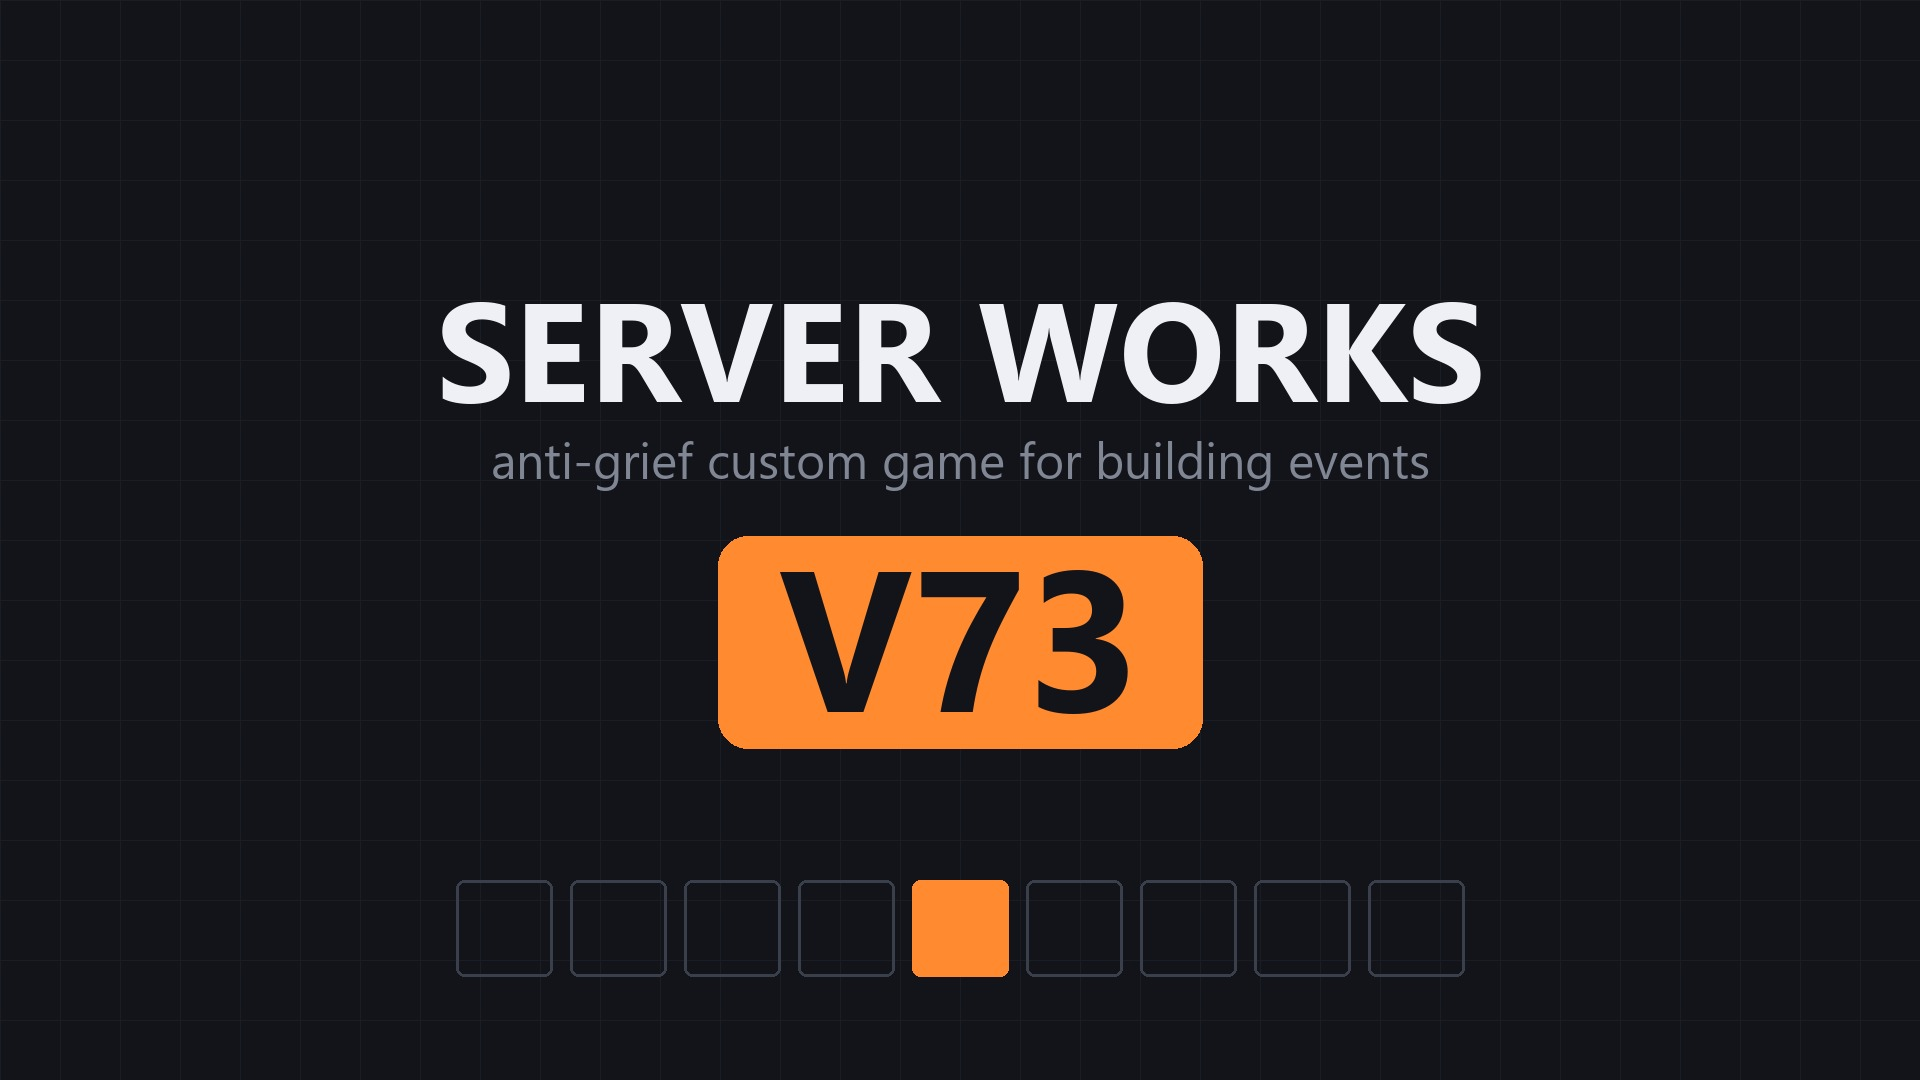
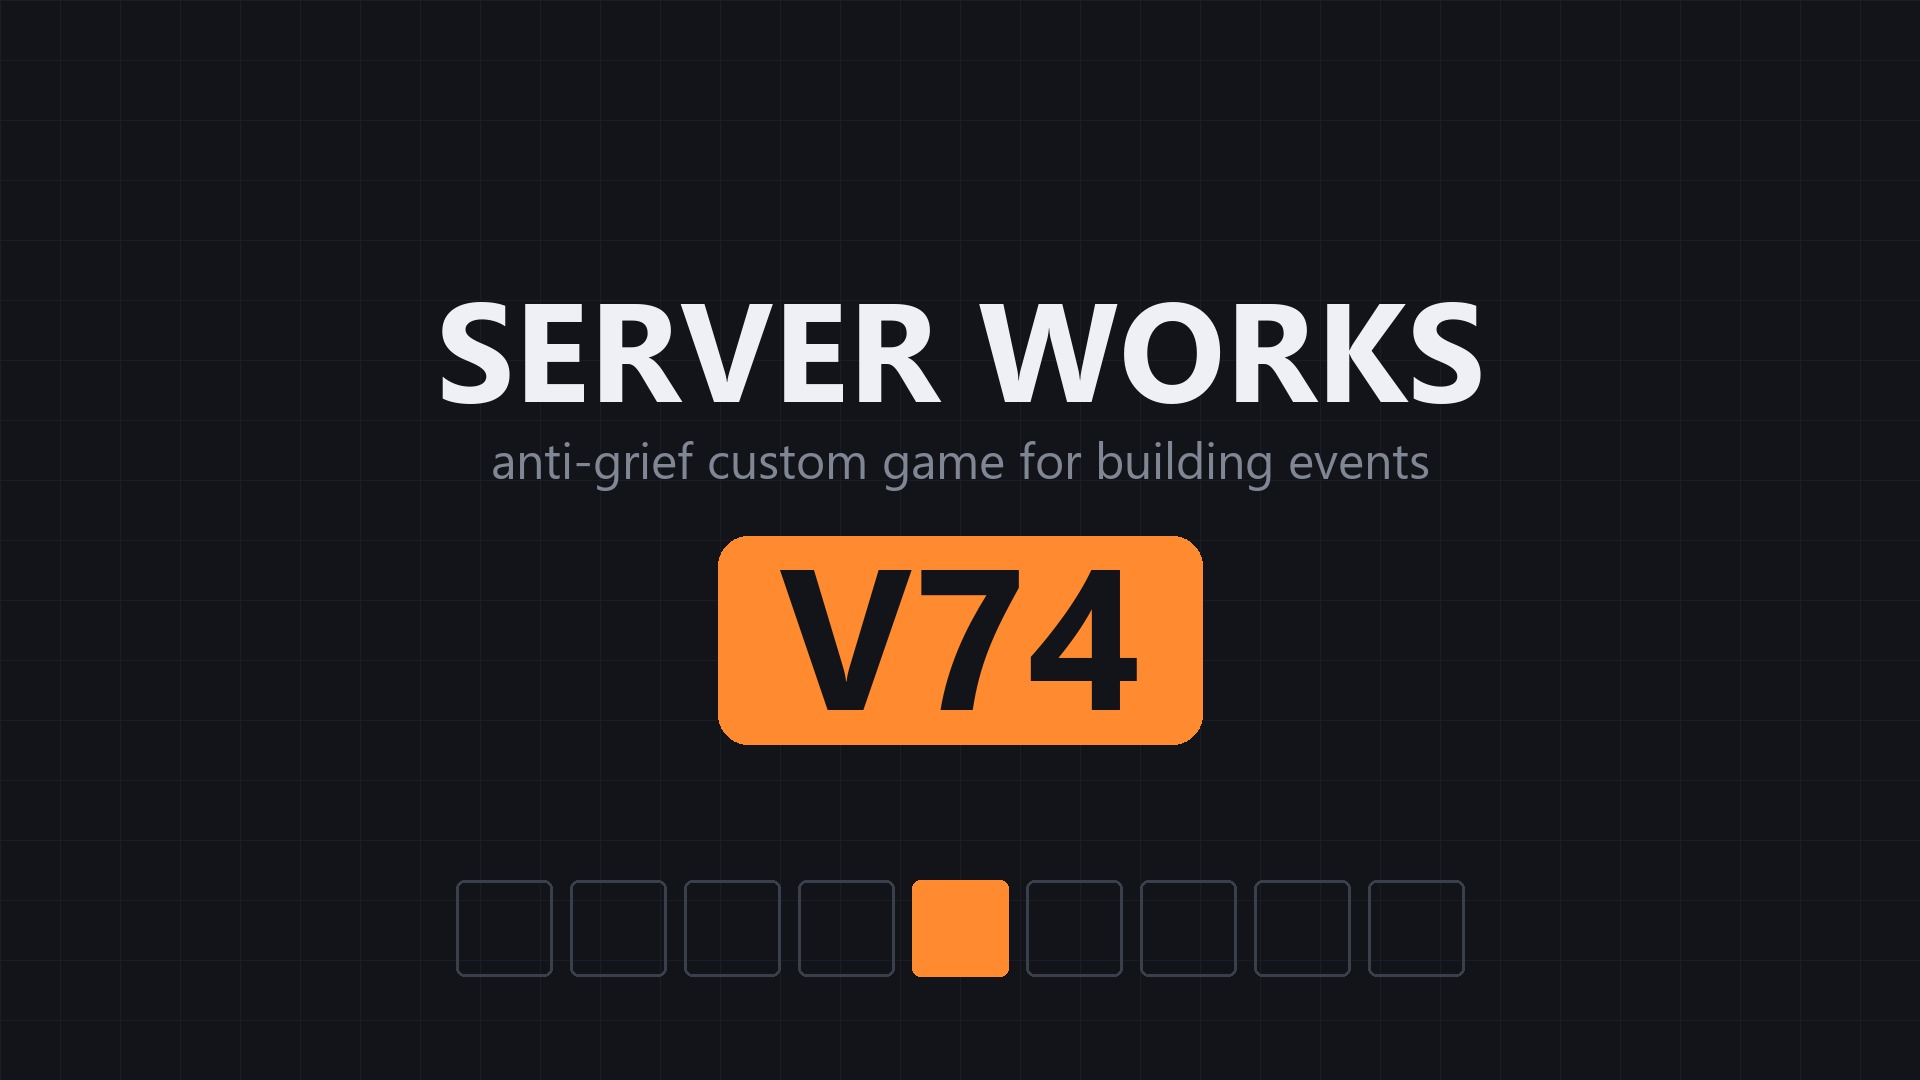
V74: allow block mods again, and make what loaded visible
allow_add_mods is back to true, reversing V54.

Nothing in docs/MODS-AND-TRUST.md is withdrawn -- there is still no sandbox
between mods, a Blocks-and-Parts mod still runs server-side Lua on the host
with nearly our reach, and T mod's backdoor is still a real worked example.
The facts did not change; the decision did.

What makes it defensible is the measurement that decides who is exposed: a
guest CANNOT bring mods (101 subscribed, 1 loaded, on a real join). Only the
host can tick that box, at world creation. So this is not a hole a lobby can
walk through -- it is a choice about the owner's own machine, and the mod was
making it for them. An event that wants custom building parts needs it.

The cost is real and already paid once: T mod is in this machine's own logs,
in a session with 155 mods loaded, and the 95 MB / 4.6 Hz incident happened
in a Server Works world by accident.

So session_stats.py now reports every mod a session loaded -- name, type and
Workshop id -- and says plainly when anything besides the custom game was
running. The game lists them on startup and nothing was reading it. "My own
risk" is only true if you can see what you took.

/check gains boot-modsbox: confirm the box is really on the world creation
screen, which nothing in dev/ can see.

Claude-Session: https://claude.ai/code/session_012wUcQDqVAQtXsQgfgkgwKb

Changed region(s): [[0.375, 0.5194, 0.625, 0.7028], [0.4062, 0.5194, 0.4375, 0.55]]

diff --git a/dev/session_stats.py b/dev/session_stats.py
@@ -77,6 +77,21 @@ SKIP = re.compile(rb"Skip sending unreliable network data to client (\d+)"
 #
 # The mode is logged as `Multiplayer: Multiplayer(N)` on load and on every
 # change, which is what makes the correlation readable at all.
+# WHAT ELSE WAS LOADED. The game lists every mod on startup in one line:
+#
+#   Server Works - UGC - Type: CustomGameMod Version: 1/1 - Content ID: <uuid>
+#                        - Steam File ID: 0 - Local: true
+#
+# This matters more now that `allow_add_mods` is true. A Blocks-and-Parts mod
+# enabled beside this one runs server-side Lua on the host with nearly our own
+# reach -- there is no sandbox between mods (docs/MODS-AND-TRUST.md). Only the
+# HOST can tick that box, so it is their own risk and nobody else's, but "my
+# own risk" is only true if they can see what they took.
+MODLINE = re.compile(
+    rb"\s*(.+?) - UGC - Type: (\w+)"
+    rb"(?:.*?Content ID: ([0-9a-f-]+))?"
+    rb"(?:.*?Steam File ID: (\d+))?")
+
 STATE = re.compile(rb"State: ([A-Za-z ]+) -> ([A-Za-z ]+)")
 CONN = re.compile(rb"Connection handle: (\d+), user: (\d+)")
 MPMODE = re.compile(rb"Multiplayer: Multiplayer\((\d+)\)")
@@ -104,6 +119,7 @@ def scan(path, want_spam):
     # steam id -> [skips, worst deficit, first minute seen, last minute seen]
     budget = {}
     # the connection story: mode changes, refusals, and auth drops
+    mods = []
     joins = {"modes": [], "refused": collections.Counter(),
              "connected": collections.Counter(), "noauth": [], "last_user": None,
              "mode_now": None}
@@ -133,6 +149,12 @@ def scan(path, want_spam):
                         minute = t // 60
                         e[2] = minute if e[2] is None else e[2]
                         e[3] = minute
+            if b" - UGC - Type: " in line:
+                m2 = MODLINE.search(line)
+                if m2:
+                    mods.append(tuple(
+                        (g.decode(errors="replace") if g else "") for g in m2.groups()))
+
             c = CONN.search(line)
             if c:
                 joins["last_user"] = c.group(2).decode()
@@ -158,7 +180,7 @@ def scan(path, want_spam):
                 msg = HEAD.sub(b"", line).strip()
                 spam[NUM.sub(b"#", msg)[:110]] += 1
 
-    return per_minute, users, max_pid, lines, spam, budget, joins
+    return per_minute, users, max_pid, lines, spam, budget, joins, mods
 
 
 def rates(per_minute):
@@ -185,7 +207,7 @@ def main():
     size = os.path.getsize(path)
     print(f"{os.path.basename(path)}  ({size / 1e6:.1f} MB)")
 
-    per_minute, users, max_pid, lines, spam, budget, joins = scan(path, want_spam)
+    per_minute, users, max_pid, lines, spam, budget, joins, mods = scan(path, want_spam)
     print(f"lines {lines:,}   distinct steam users {len(users)}   highest player id {max_pid}")
 
     r = rates(per_minute)
@@ -214,6 +236,22 @@ def main():
     # logs on this machine -- 50 connections, 10 refusals -- and 8 of those 10
     # were ONE person retrying every few seconds into a visibility setting that
     # did not allow them, ending the instant the host widened it.
+    # EVERY MOD THAT LOADED. First, because if something else was running the
+    # rest of this report is about that as much as about us.
+    print(NL + "mods loaded")
+    if not mods:
+        print("  none listed (an older build, or the line format changed)")
+    else:
+        for name, kind, cid, fid in mods:
+            where = "local" if fid in ("", "0") else f"workshop {fid}"
+            print(f"  {name[:42]:42} {kind:18} {where}")
+        others = [m for m in mods if m[1] != "CustomGameMod"]
+        if others:
+            print(f"  ^ {len(others)} mod(s) besides the custom game were loaded.")
+            print("    There is no sandbox between mods: anything here ran server-side")
+            print("    Lua on the host with nearly this mod's reach. Only the host can")
+            print("    enable one, so this is a record of what THEY chose to trust.")
+
     print(NL + "who could join")
     modes = joins["modes"]
     if modes:

diff --git a/docs/CHANGELOG.md b/docs/CHANGELOG.md
@@ -10,6 +10,50 @@ was most of them.
 
 ---
 
+## V74 -- block mods are allowed again
+
+> "you know what. lets allow to install block mods."
+
+`allow_add_mods` is back to **true**, reversing V54.
+
+**Nothing in `docs/MODS-AND-TRUST.md` is withdrawn.** Every measurement in it
+still holds: there is no sandbox between mods, a Blocks-and-Parts mod enabled
+beside this one runs server-side Lua on the host with nearly our own reach, and
+T mod's host-takeover backdoor is a real worked example. The facts did not
+change; the decision did.
+
+**What makes the reversal defensible is the one measurement that decides who is
+exposed: a guest cannot bring mods.** MEASURED on a real join -- 101 subscribed,
+1 loaded. The only person who can enable one is the HOST, at world creation. So
+this is not a hole a lobby can walk through; it is a decision about the owner's
+own machine, and the mod was making it for them. An event that wants custom
+building parts needs that box, and turning it off protected the host from
+themselves at the price of the feature.
+
+**The cost is real and this owner has already paid it.** T mod is in this
+machine's own logs, in a session with **155 mods loaded**, and the 95 MB / 4.6 Hz
+incident happened in a Server Works world by accident with nobody attacking
+anything.
+
+### So the mod list is now visible after the fact
+
+`dev/session_stats.py` reports every mod a session loaded, name and Workshop id,
+and says plainly when anything besides the custom game was running:
+
+    mods loaded
+      T mod                        BlocksAndPartsMod  workshop 3438987478
+      Despawner Mod                BlocksAndPartsMod  workshop 3297496121
+      ...
+      ^ 155 mod(s) besides the custom game were loaded.
+
+"My own risk" is only true if you can see what you took. The game lists them on
+startup in one line each; nothing was reading it.
+
+`/check` gains `boot-modsbox` -- confirm the box is actually on the world
+creation screen, which is a thing nothing in `dev/` can see.
+
+---
+
 ## V73 -- the BUILD preset was missing the damage switch
 
 > "the building preset shall disable explosives. clay gun, fires. damage. and

diff --git a/docs/MODS-AND-TRUST.md b/docs/MODS-AND-TRUST.md
@@ -171,7 +171,38 @@ every world in the chain, and an event host is the highest-fanout node in it.
 
 ## What was done
 
-1. **`allow_add_mods: false`** in `mod/description.json`. This is the whole
+> ## REVERSED, V74: `allow_add_mods` is TRUE again
+>
+> Asked for plainly: *"you know what. lets allow to install block mods."*
+>
+> **Nothing below is withdrawn.** Every measurement in this document still
+> holds: there is no sandbox between mods, a Blocks-and-Parts mod enabled
+> beside this one runs server-side Lua on the host with nearly our own reach,
+> and T mod's host-takeover backdoor is a real worked example. The facts did
+> not change. The decision did.
+>
+> **What makes it defensible is the one measurement that decides who is
+> exposed: a guest cannot bring their own mods.** MEASURED, on a real join --
+> 101 subscribed, 1 loaded. The only person who can enable a mod is the HOST,
+> at world creation. So `allow_add_mods` is not a hole a lobby can walk
+> through; it is a decision the owner makes about their own machine, and this
+> mod was making it for them.
+>
+> **The cost is real and this owner has already paid it once.** T mod appears
+> in this machine's own logs, in a session with **155 mods loaded**, and the
+> 95 MB / 4.6 Hz incident recorded below happened in a Server Works world by
+> accident with nobody attacking anything.
+>
+> **What changed to make it survivable:** `dev/session_stats.py` now lists
+> every mod a session loaded, with its Workshop id, and says plainly when
+> anything besides the custom game was running. "My own risk" is only true if
+> you can see what you took.
+>
+> An event that wants custom building parts needs this box. Turning it off
+> protected the host from themselves at the price of the feature, and that
+> was the wrong trade to make on somebody else's behalf.
+
+1. **~~`allow_add_mods: false`~~** in `mod/description.json`. This was the whole
    defense: with it off, the tick box is not there to click, and no script of
    ours has to be correct for that to hold. Cost: players get no extra building
    parts beyond base content. **Reverting is one word.**

diff --git a/docs/NEXT.md b/docs/NEXT.md
@@ -10,11 +10,11 @@ Companions:
 [`ROADMAP.md`](ROADMAP.md) the phased plan ·
 [`../CLAUDE.md`](../CLAUDE.md) engine facts with citations ·
 [`ANTI-GRIEF.md`](ANTI-GRIEF.md) why protection cannot be prevention ·
-[`MODS-AND-TRUST.md`](MODS-AND-TRUST.md) why `allow_add_mods` is false ·
+[`MODS-AND-TRUST.md`](MODS-AND-TRUST.md) what a co-loaded mod can do ·
 [`BUTTONS.md`](BUTTONS.md) everything a json GUI needs ·
 [`CHANGELOG.md`](CHANGELOG.md) what every version fixed
 
-Current version: **V73**. All 217 checks pass. `python dev/check_all.py --sync`
+Current version: **V74**. All 217 checks pass. `python dev/check_all.py --sync`
 before playing, and **restart Scrap Mechanic** — scripts are read at world load.
 
 ---
@@ -275,8 +275,10 @@ button saga forced through.
    neon. Guesses at taste, free to change.
 6. **`/purge here <radius>`** is the same guess-and-delete shape as the sweep
    that was removed on request. Say the word and it goes too.
-7. **`allow_add_mods` is `false`** (V54). The mod list is the trust boundary, so
-   decide it per event rather than leaving it open.
+7. **`allow_add_mods` is `true`** (V74, reversed from V54). The mod list is
+   still the trust boundary -- what changed is who decides. A guest cannot bring
+   mods, so the only person who can enable one is you, at world creation.
+   `dev/session_stats.py` lists every mod a session loaded.
 8. **Crowd looks: eleven.** The bots wear vanilla's ten in-game NPC mechanic
    outfits plus the classic mechanic. More variety is possible and it is not
    free — a bespoke outfit per bot is what took 20 bots to 8 fps. If a crowd of

diff --git a/CLAUDE.md b/CLAUDE.md
@@ -97,7 +97,12 @@ alarm exists to detect, contain and reverse.
 
 There is no sandbox between mods, so a Blocks-and-Parts mod enabled beside this
 one runs server-side Lua on the host with nearly our own reach. `allow_add_mods`
-is therefore a security setting, and it is now **false**.
+is therefore a security setting, and **as of V74 it is TRUE** -- reversed on the
+owner's instruction, with the reasoning at the top of that document. The short
+version of the reversal: **a guest cannot bring mods** (measured, 101 subscribed
+and 1 loaded on a real join), so the only person who can open that door is the
+host, on their own machine. Deciding it for them cost the feature an event
+actually wants. `dev/session_stats.py` now lists every mod a session loaded.
 
 The short version, all of it measured: a guest CANNOT bring their own mods (101
 subscribed, 1 loaded, on a real join), an installed-but-unticked mod executes
@@ -2463,7 +2468,8 @@ credit it with fixing the thing that actually degraded.
 
 ## What exists
 
-    mod/description.json        Custom Game, version 1, allow_add_mods
+    mod/description.json        Custom Game, version 1, allow_add_mods TRUE
+                                since V74 -- see docs/MODS-AND-TRUST.md
     mod/config.json             baseGameContent "Survival" -- the ONLY value that
                                 works; "Creative" registers no scriptable objects
                                 and CreativeGame then never creates a world

diff --git a/docs/STATUS.md b/docs/STATUS.md
@@ -342,10 +342,12 @@ Written, compiled, checked, installed. **Never once executed in the game.**
   all test the sender. **This is the one line here that cannot be turned green
   solo:** proving a guest is refused needs a second client, and there is no
   dedicated server to stand in for one.
-- **`allow_add_mods: false`** in `description.json`. The world has never been
-  loaded with it off. What to check is only that the world still creates and the
-  Custom Game still lists -- it changes the world-creation screen, and nothing in
-  `dev/` can see that screen.
+- **`allow_add_mods: true`** in `description.json` (V74, reversed). The world
+  has never been loaded either way since V54. What to check is that the world
+  still creates AND that the "add mods" box is now on the world-creation screen
+  -- it changes that screen, and nothing in `dev/` can see it. If you tick
+  anything, `python dev/session_stats.py` afterwards names every mod that
+  loaded.
 
 ### New in V55, none of it run
 
